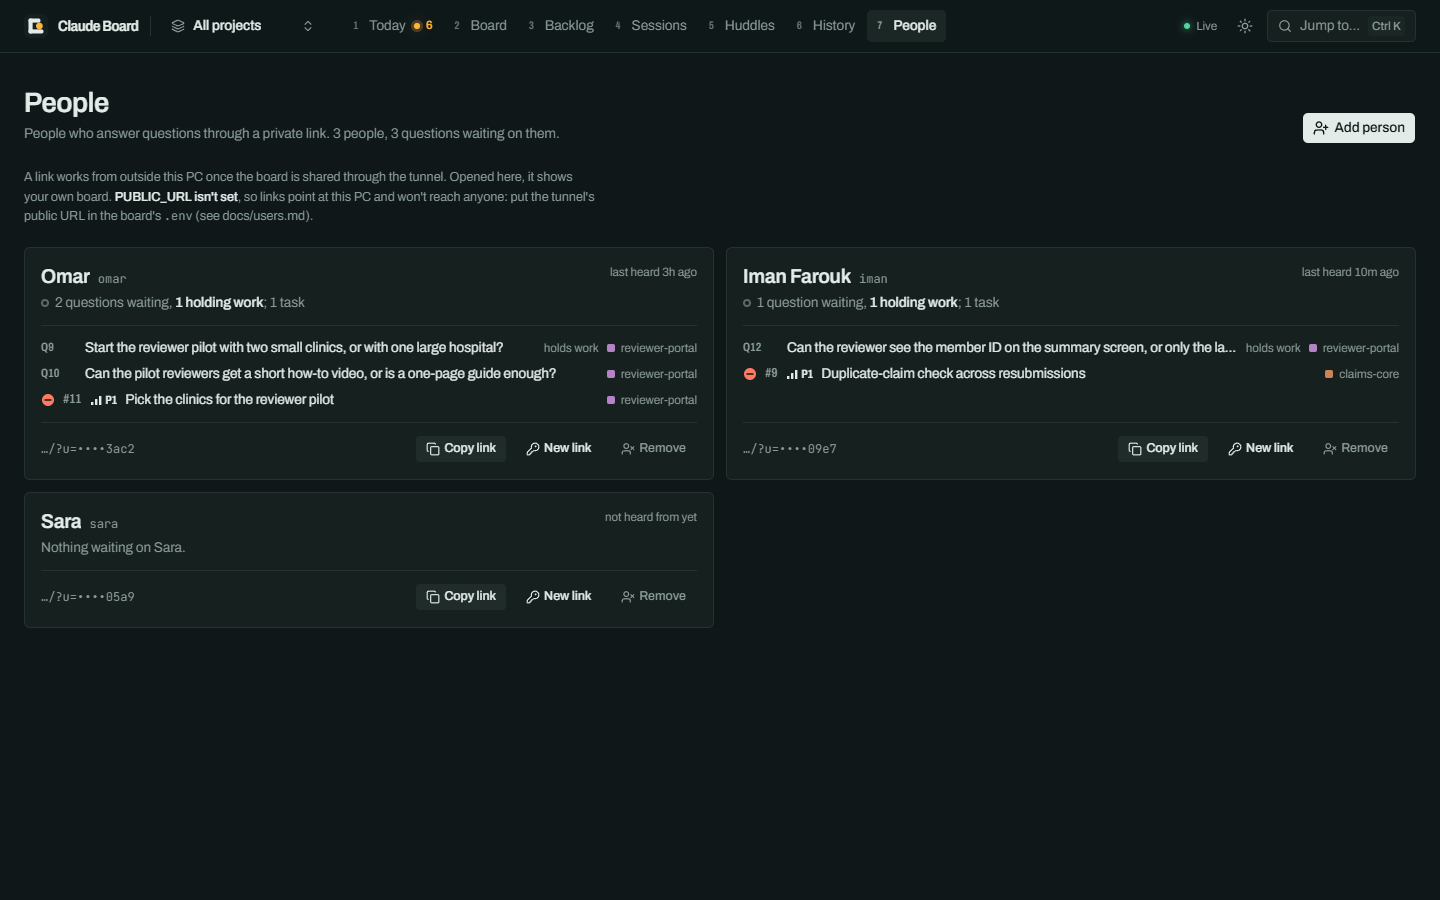
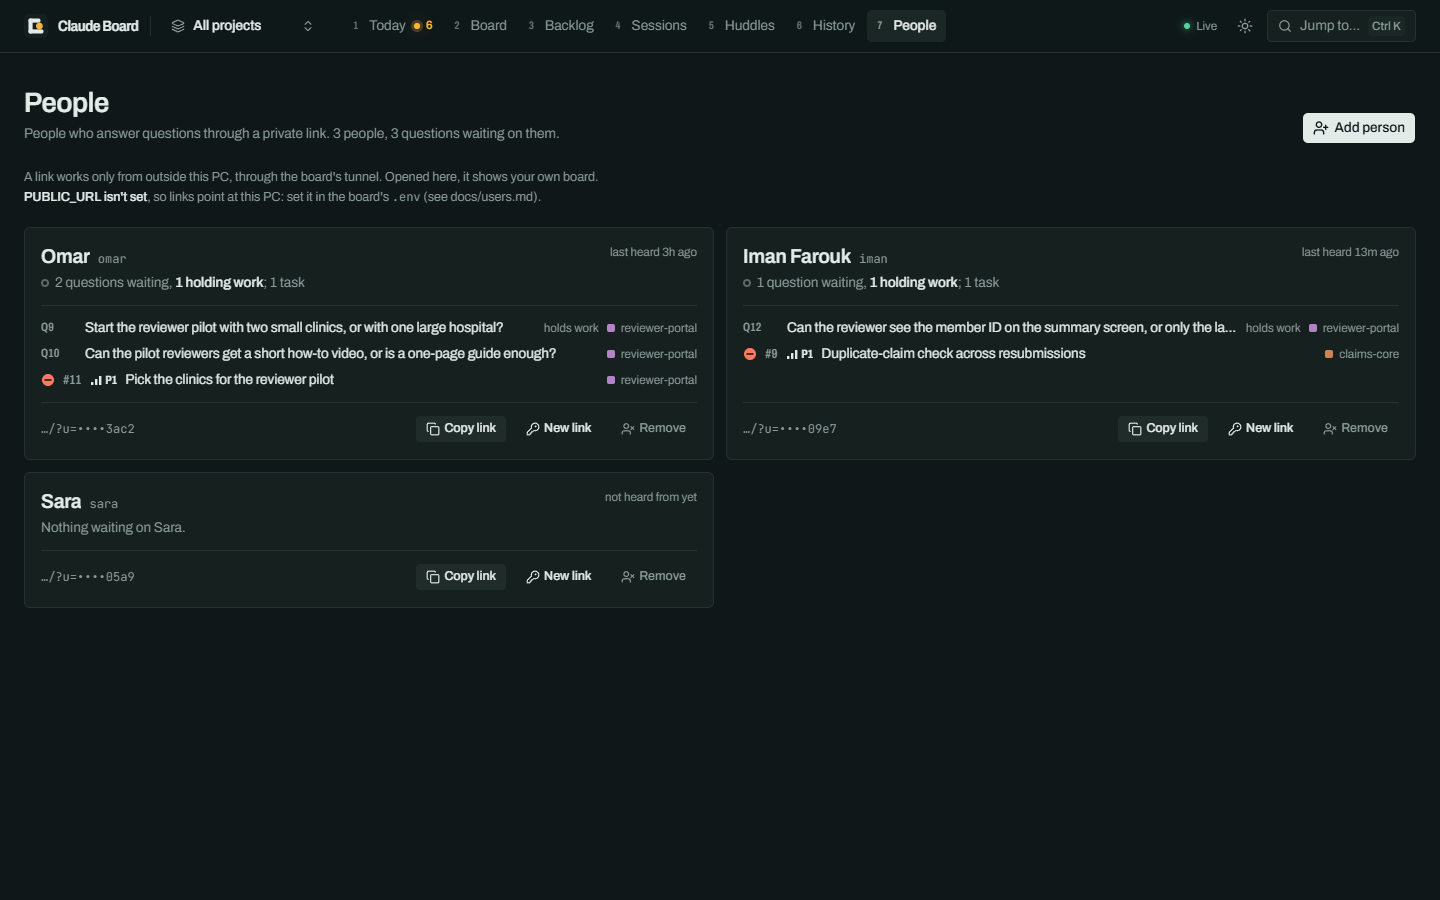
docs(people): the tunnel is a Cloudflare named tunnel; UI copy names no tool (#304)
- People note: "A link works only from outside this PC, through the board's
  tunnel"; unset PUBLIC_URL says to set it in .env. No ngrok in web/.
- docs/users.md: ngrok steps and broken-ngrok notes replaced with the
  cloudflared service for the named tunnel claude-board; PUBLIC_URL is its
  https hostname; tunnel requests carry cf-connecting-ip and X-Forwarded-For,
  so isLocal() treats them as outside.
- Shots retaken.

Claude-Session: https://claude.ai/code/session_01VedgXVv8qMF6m9X8gs9A6U

diff --git a/web/src/views/People.tsx b/web/src/views/People.tsx
@@ -71,9 +71,9 @@ function TunnelNote({ publicUrl, loaded }: { publicUrl: string | null; loaded: b
   if (!loaded) return null
   return (
     <p className="mb-5 max-w-[80ch] text-[13px] text-muted-foreground text-pretty">
-      A link works from outside this PC once the board is shared through the tunnel. Opened here, it shows your own board.
+      A link works only from outside this PC, through the board's tunnel. Opened here, it shows your own board.
       {publicUrl ? <> Links point at <span className="font-mono text-xs text-foreground">{publicUrl}</span>.</>
-        : <> <span className="font-medium text-foreground">PUBLIC_URL isn't set</span>, so links point at this PC and won't reach anyone: put the tunnel's public URL in the board's <code className="font-mono text-xs">.env</code> (see docs/users.md).</>}
+        : <> <span className="font-medium text-foreground">PUBLIC_URL isn't set</span>, so links point at this PC: set it in the board's <code className="font-mono text-xs">.env</code> (see docs/users.md).</>}
     </p>
   )
 }

diff --git a/docs/users.md b/docs/users.md
@@ -14,37 +14,24 @@ board is readable through the tunnel. The link is the whole login, so send it pr
 
    It prints Omar's link. Running it again prints the same link.
 
-2. **Start the tunnel** to the board's port:
+2. **Check the tunnel is up.** The board is shared through a Cloudflare named tunnel,
+   `claude-board`, which runs as the `cloudflared` Windows service and forwards its https
+   hostname to the board on this PC (port 4747). As a service it runs without a terminal, so there
+   is nothing to start per session. Check it with `Get-Service cloudflared` (Status should be Running); the
+   team lead set it up, and `cloudflared tunnel info claude-board` shows its connections.
+
+3. **Set the public URL**, so links point at the tunnel and not at localhost. PUBLIC_URL is the
+   tunnel's https hostname. Add it to `.env` in the board's own checkout
+   (`F:\Work\claude-board\.env`; `cb` and the board read the repo's `.env`, not the current folder's):
 
    ```
-   ngrok http 4747
-   ```
-
-   Copy the `https://….ngrok-free.app` URL from the "Forwarding" line.
-
-   - **ngrok is broken on this PC right now (checked 2026-11-09).** The Chocolatey shim
-     `C:\ProgramData\chocolatey\bin\ngrok.exe` points at
-     `C:\ProgramData\chocolatey\lib\ngrok\tools\ngrok.exe`, and that file is missing. Reinstall it
-     from an admin shell with `choco install ngrok --force` (or `winget install ngrok.ngrok`), then
-     check with `ngrok version` and `ngrok config check`.
-   - **The authtoken is already set** in `%LOCALAPPDATA%\ngrok\ngrok.yml`. If `ngrok config check`
-     ever says it's missing, copy the token from dashboard.ngrok.com (Your Authtoken) and run
-     `ngrok config add-authtoken <token>`.
-   - A free URL changes each time ngrok restarts, unless you use your free static domain (see
-     `ngrok http --help` for the domain flag). If the URL changes, repeat steps 3 and 4.
-   - The first time Omar opens the link, ngrok's free plan shows a "You are about to visit…"
-     page. He clicks **Visit Site** and the link works from then on.
-
-3. **Set the public URL**, so the link points at the tunnel and not at localhost. Add it to
-   `.env` in the board's own checkout (`F:\Work\claude-board\.env`; `cb` reads the repo's `.env`,
-   not the current folder's):
-
-   ```
-   PUBLIC_URL=https://<your-subdomain>.ngrok-free.app
+   PUBLIC_URL=https://<the tunnel's hostname>
    ```
 
    Or set it for one command only: `$env:CB_PUBLIC_URL = "https://…"` (PowerShell).
-   Then run `cb user add omar` again to print the link with the new URL.
+   The hostname is fixed, so this is a one-time step, and the board picks it up without a restart
+   (it reads `.env` on each request). Then run `cb user add omar` again, or open
+   People (key 7) and **Copy link**, to get the link with the tunnel's URL.
 
 4. **Send Omar the link** in a direct message, not in a group chat. Opening it signs his browser
    in for 90 days.
@@ -69,8 +56,9 @@ never taken as your approval.
 
 ## Stop sharing
 
-Stop ngrok (Ctrl+C). Nothing is reachable from outside after that, but anyone who has a link gets
-in again the next time the tunnel is up.
+Stop the tunnel: `Stop-Service cloudflared` from an admin shell (`Start-Service cloudflared` brings
+it back). Nothing is reachable from outside while it's stopped, but anyone who has a link gets in
+again once the tunnel is up.
 
 - **A link leaked:** People (key 7) → **New link**, or `cb user rotate omar`. The old link stops
   working at once, also in a browser already signed in with it. Send the new one.
@@ -83,8 +71,10 @@ The People page also adds people and copies anyone's link again later.
 ## Don'ts
 
 - **Don't set `HOST`** (leave the server on 127.0.0.1). The board treats a request as yours when
-  it comes to `localhost` with no proxy headers. ngrok always adds `X-Forwarded-For`, so tunnel
-  traffic never counts as yours. A server bound to `0.0.0.0` lets anyone on the LAN who sends
+  it comes to `localhost` with no proxy headers. Requests through the Cloudflare tunnel carry
+  `cf-connecting-ip` and `X-Forwarded-For`, so `isLocal()` treats them as outside and they need a
+  link. A server bound to `0.0.0.0` lets anyone on the LAN who sends
   `Host: localhost` count as you.
-- **Don't use a tunnel or proxy that strips `X-Forwarded-For`** together with a `localhost` host
-  header: every visitor would get the full board.
+- **Don't put a tunnel or proxy in front that strips those headers** (`cf-connecting-ip`,
+  `X-Forwarded-For`, `X-Forwarded-Host`) and sends a `localhost` host header: every visitor would
+  get the full board.
